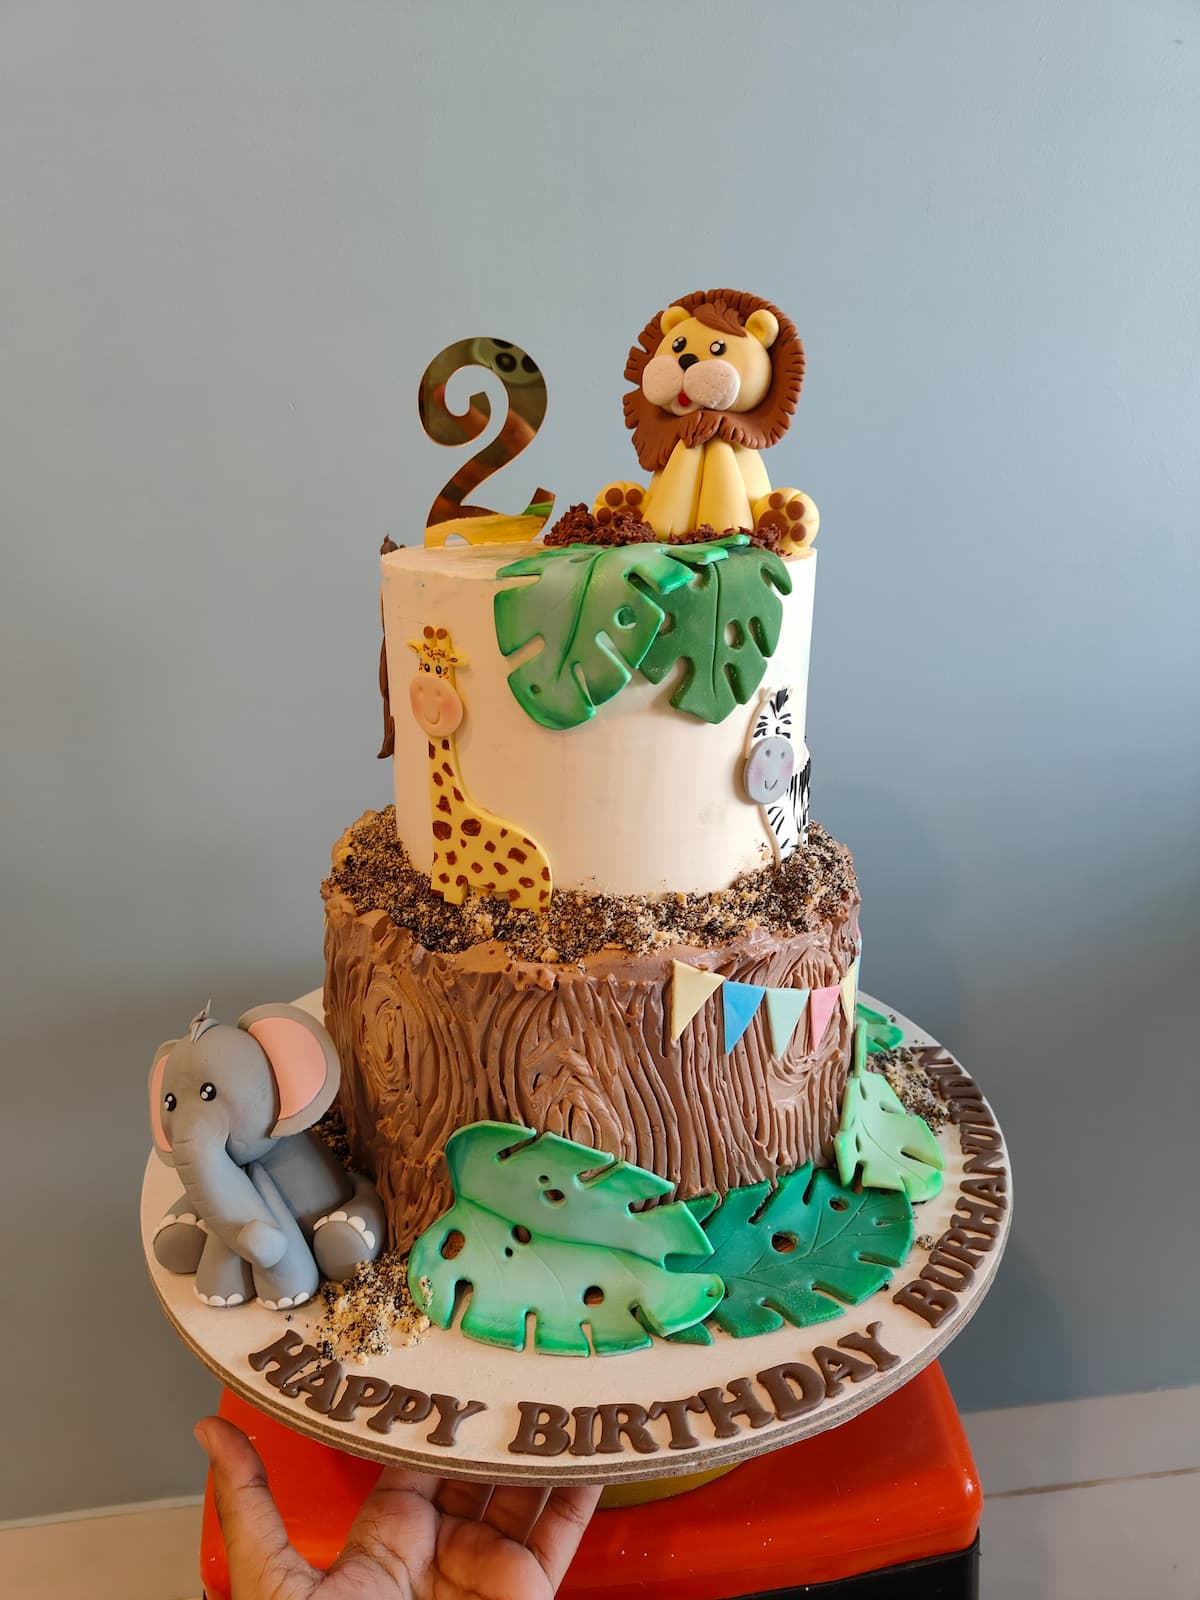
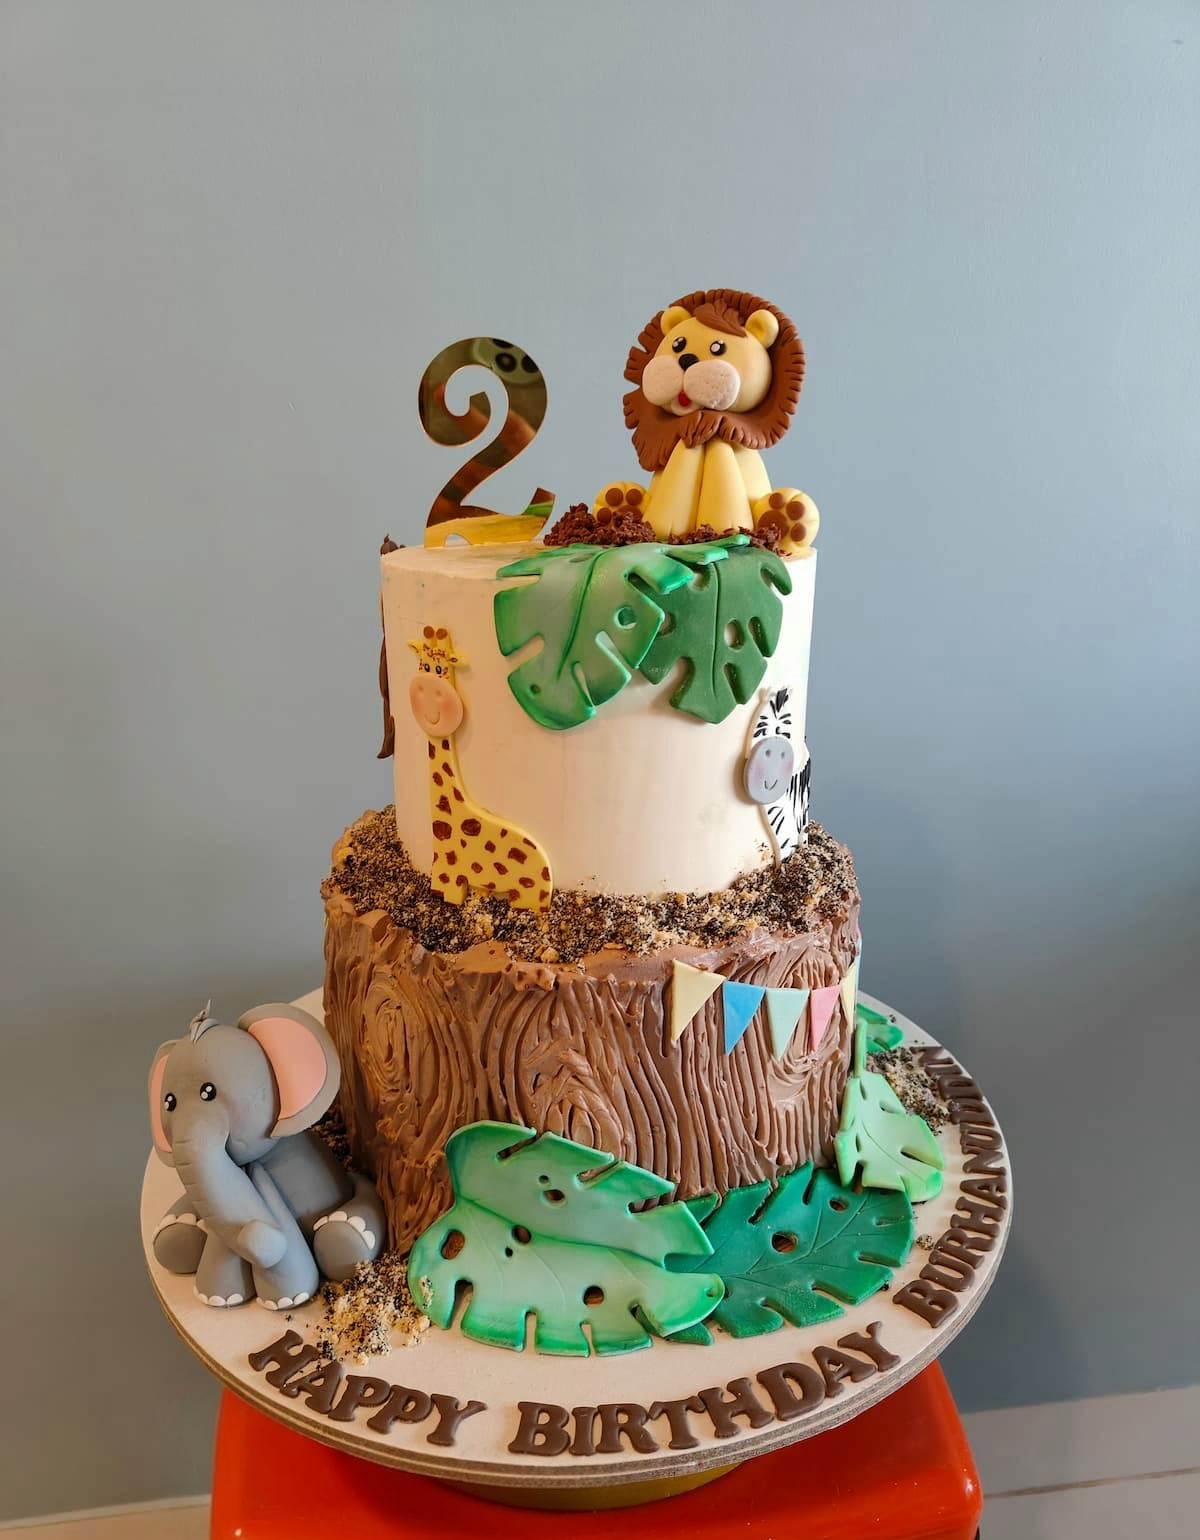
typo - ai hand

diff --git a/script.js b/script.js
@@ -35,7 +35,7 @@ const cakes = [
     ]
   },
         {
-    name: "The Floral Fanatasy",
+    name: "The Floral Fantasy",
     //description: "Chocolate cake with fresh strawberries",
     image: "images/cake4.jpg",
     gallery: [
